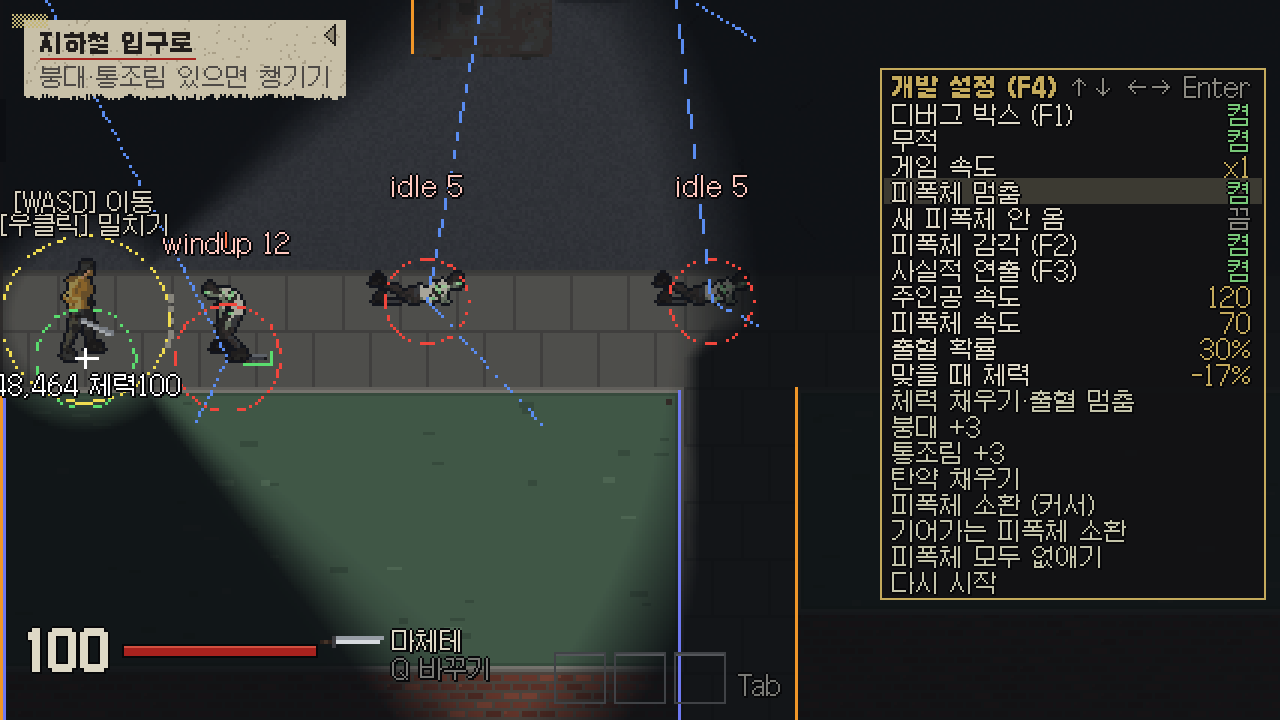
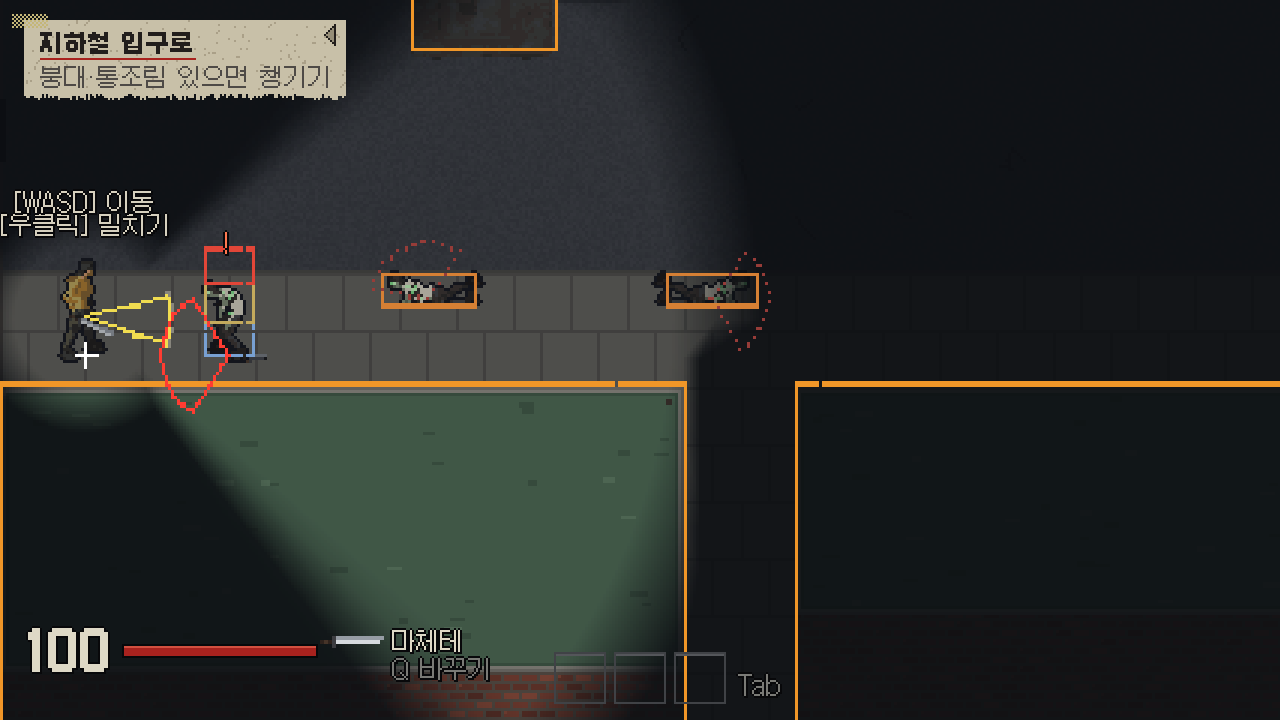
F1 디버그 박스를 공격 범위·히트박스만 보이게
- 숫자·시야·줍기 범위 제거
- 주인공 공격 부채꼴(총은 총알 띠), 피폭체 머리·몸통·다리 박스, 할퀴기 부채꼴
- 선을 캔버스 픽셀 단위로 찍어 끊기지 않게

diff --git a/src/dev_tools.py b/src/dev_tools.py
@@ -1,7 +1,7 @@
 """Developer tools (2026-11-18 "디버그용 박스가 필요함", "개발용 설정창 테스트를 할 수 있게").
 
-- F1: debug boxes over the world - walls and wrecks, the hero's reach and pick-up range, each
-  infected's reach, sight cone, state and health, things to pick up, the exit.
+- F1: debug boxes over the world, only what decides hits (no numbers): walls and wrecks, the
+  hero's blow toward the cursor, each infected's body parts (head / torso / legs) and its claw.
 - F4: the dev settings panel (top right). Up/Down choose a row, Left/Right change it, Enter does it;
   or click a row (left = up / do, right = down). The game keeps running behind it.
 
@@ -9,7 +9,7 @@ Every setting is a row in ROWS, so a new one is one line. Values that live in ot
 (speeds, bleeding) are changed there, so the game uses them at once; R keeps them.
 """
 
-from math import cos, pi, sin
+from math import atan2, cos, hypot, sin
 
 import pico2d
 import sdl2
@@ -19,9 +19,8 @@ import condition
 import hero as hero_rules
 import infected
 import pixel_ui as px
-import ui
 import weapons
-from settings import CHEST, HERO_HP
+from settings import CHEST, DOT, HERO_HP, ZOMBIE_ARC
 
 SPEEDS = (0.25, 0.5, 1.0, 2.0)
 PANEL = (440, 34, 632)              # canvas px: left, top, right (the rows set the bottom)
@@ -109,7 +108,7 @@ def _restart(game, step):
 
 # (label, value shown or None for an action, change(game, step))
 ROWS = (
-    ("디버그 박스 (F1)", lambda g: _on(g.dev.boxes), _flip("boxes")),
+    ("공격 범위·히트박스 (F1)", lambda g: _on(g.dev.boxes), _flip("boxes")),
     ("무적", lambda g: _on(g.dev.god), _flip("god")),
     ("게임 속도", lambda g: f"x{g.dev.speed:g}", _speed),
     ("피폭체 멈춤", lambda g: _on(g.dev.freeze), _flip("freeze")),
@@ -197,47 +196,82 @@ def draw_panel(game):
             px.text(r - 6, y, v, (120, 200, 120) if v == "켬" else GREY if v == "끔" else PANEL_EDGE, anchor="r")
 
 
-def _circle(x, y, radius, colour, steps=32):
-    for i in range(steps):
-        a0, a1 = 2 * pi * i / steps, 2 * pi * (i + 1) / steps
-        pico2d.draw_line(x + cos(a0) * radius, y + sin(a0) * radius, x + cos(a1) * radius, y + sin(a1) * radius, *colour)
+# The world canvas has DOT canvas px per world unit (< 1), so a 1-unit line falls between pixels and
+# parts of it vanish: every mark is made of whole canvas pixels instead.
+PIXEL = 1 / DOT
+
+
+def _dot(x, y, colour):
+    qx, qy = round(x * DOT) / DOT, round(y * DOT) / DOT
+    pico2d.draw_rectangle(qx, qy, qx + PIXEL * 0.99, qy + PIXEL * 0.99, *colour, filled=True)
+
+
+def _line(x0, y0, x1, y1, colour, gap=1):
+    n = max(1, int(hypot(x1 - x0, y1 - y0) * DOT / gap))
+    for i in range(n + 1):
+        _dot(x0 + (x1 - x0) * i / n, y0 + (y1 - y0) * i / n, colour)
+
+
+def _arc(x, y, radius, a0, a1, colour, gap=1):
+    n = max(2, int(radius * abs(a1 - a0) * DOT / gap))
+    for i in range(n + 1):
+        a = a0 + (a1 - a0) * i / n
+        _dot(x + cos(a) * radius, y + sin(a) * radius, colour)
+
+
+def _wedge(x, y, radius, ang, half, colour, gap=1):
+    """The area a blow covers: radius out from (x, y), half radians either side of ang."""
+    _arc(x, y, radius, ang - half, ang + half, colour, gap)
+    for a in (ang - half, ang + half):
+        _line(x, y, x + cos(a) * radius, y + sin(a) * radius, colour, gap)
 
 
 def _box(l, b, r, t, colour):
-    pico2d.draw_rectangle(l, b, r, t, *colour)
+    _line(l, b, r, b, colour)
+    _line(l, t, r, t, colour)
+    _line(l, b, l, t, colour)
+    _line(r, b, r, t, colour)
+
+
+PART_COLOURS = {"head": (226, 70, 56), "torso": (196, 170, 92), "legs": (120, 160, 210)}
 
 
 def draw_boxes(game, cx, cy):
-    """World-space outlines (called inside the world canvas, after everything else)."""
+    """F1: only what decides hits, no numbers (2026-11-18 "숫자는 빼고 공격 범위, 히트박스"):
+    walls bodies bump into, the hero's blow, each infected's body parts and its claw."""
     if not game.dev.boxes:
         return
-    from supplies import PICK_RANGE
-    vl, vb = cx, cy
-    vr, vt = cx + game.view_w, cy + game.view_h
-    for bl, bb, br, bt in area.near_blocks(vl, vb, vr, vt):          # what bodies bump into
-        _box(bl - cx, bb - cy, br - cx, bt - cy, (240, 150, 40))
-    for bl, bb, br, bt in area.sight_blocks(vl, vb, vr, vt):         # what blocks the view
-        _box(bl + 2 - cx, bb + 2 - cy, br - 2 - cx, bt - 2 - cy, (110, 120, 240))
-    el, eb, er, et = area.EXIT
-    _box(el - cx, eb - cy, er - cx, et - cy, (80, 230, 120))
+    for bl, bb, br, bt in area.near_blocks(cx, cy, cx + game.view_w, cy + game.view_h):
+        _box(bl - cx, bb - cy, br - cx, bt - cy, (240, 150, 40))                  # walls, wrecks
     h = game.hero
     hx, hy = h.x - cx, h.y - cy
-    _circle(hx, hy + CHEST, weapons.attack_range(h.weapon), (240, 220, 80))     # the weapon's reach
-    _circle(hx, hy, PICK_RANGE, (90, 220, 110), 20)                             # pick-up range
-    pico2d.draw_line(hx - 6, hy, hx + 6, hy, 255, 255, 255)
-    pico2d.draw_line(hx, hy - 6, hx, hy + 6, 255, 255, 255)
-    ui.world_text_center(hx, hy - 14, f"{h.x:.0f},{h.y:.0f} 체력{h.hp:.0f}", (255, 255, 255), 10)
-    for s in game.supplies:
-        if not s.taken:
-            _box(s.x - 6 - cx, s.y - 6 - cy, s.x + 6 - cx, s.y + 6 - cy, (90, 220, 110))
-    for x, y, _ in game.ground_weapons:
-        _box(x - 8 - cx, y - 4 - cy, x + 8 - cx, y + 4 - cy, (90, 220, 110))
+    _line(hx - 6, hy, hx + 6, hy, (255, 255, 255))                                # where claws aim
+    _line(hx, hy - 6, hx, hy + 6, (255, 255, 255))
+    w = h.weapon
+    length = weapons.attack_range(w)
+    if game.aim[0] is not None:                                                   # the blow toward the cursor
+        tx, ty = game.mouse_world(*game.aim)
+        ang = atan2(ty - (h.y + CHEST), tx - h.x)
+        if w.get("shot"):                                                         # a gun: the bullet's lane
+            half = w["shot"]["width"] / 2
+            nx, ny = -sin(ang) * half, cos(ang) * half
+            ex, ey = hx + cos(ang) * length, hy + CHEST + sin(ang) * length
+            for sgn in (1, -1):
+                _line(hx + nx * sgn, hy + CHEST + ny * sgn, ex + nx * sgn, ey + ny * sgn, (240, 220, 80), 2)
+        else:
+            half = w["cells"] * weapons.CELL_WORLD / 2 / length                   # as wide as the hit (draw_aim)
+            _wedge(hx, hy + CHEST, length, ang, half, (240, 220, 80))
     for z in game.zombies:
         if not z.alive:
             continue
         zx, zy = z.x - cx, z.y - cy
-        _circle(zx, zy, z.reach, (240, 70, 60), 20)                                # where its blow lands
-        for a in (z.heading - infected.SIGHT_HALF, z.heading + infected.SIGHT_HALF):   # its sight cone
-            pico2d.draw_line(zx, zy, zx + cos(a) * infected.SIGHT_RANGE, zy + sin(a) * infected.SIGHT_RANGE, 90, 140, 240)
-        ui.world_text_center(zx, zy + 66, f"{z.state} {z.health}", (255, 200, 190), 10)
-
+        if z.prone:                                                               # a crawler: all of it is "밟기"
+            hw = weapons.PART_HALF_WIDTH * 2
+            _box(zx - hw, zy - 4, zx + hw, zy + 14, (214, 128, 52))
+        else:
+            hw = weapons.PART_HALF_WIDTH
+            for part, low, high in weapons.PARTS:
+                _box(zx - hw, zy + low, zx + hw, zy + high, PART_COLOURS[part])
+        striking = z.state in ("windup", "strike")
+        _wedge(zx, zy, z.reach + 8, z.heading, ZOMBIE_ARC,
+               (255, 60, 50) if striking else (150, 60, 56), 1 if striking else 3)                     # its claw (bright when it comes)

diff --git a/docs/DEVLOG.md b/docs/DEVLOG.md
@@ -313,3 +313,4 @@
 - **배낭 2단계(2026-11-18):** 자리 `[kind, col, row, turned, count]`, `STACK`, `stack_max`, `sync`가 무더기부터 채우고 마지막 무더기부터 뺌, `room_for`가 무더기 빈자리도 봄, `tidy`(큰 것부터 다시 놓기, 실패하면 되돌림). `bag_screen`: 떨어질 곳에 합칠 무더기(`bag_target[4]`), `land`(바닥에서 온 하나를 놓은 칸·무더기로 옮김), `drop_stack`, 손 칸(`hud.HAND_RECT`), 정리 버튼(`hud.TIDY_RECT`), 두 번 클릭(`bag_click`, 0.35초). `hud`: 개수 숫자, `draw_tooltip`, 손 칸 테두리, 정리 버튼. 점검: 3·4개 무더기 합치기 → 5·2, 권총을 손 칸으로 → 들고 마체테는 배낭으로, 두 번 클릭 붕대 → 체력 60→75, 정리 성공, 예전 점검 통과.
 - **출혈 하나로(2026-11-18):** `condition.py`의 `INJURIES` 대신 `BLOW_DAMAGE 17`, `BLEED_CHANCE 0.4`, `BLEED_RATE 1.5`; `Condition.bleeding`(참/거짓), `blows`(몸 그림 점), `dressed`. `wound()`는 (출혈 여부, 17), `treat()`는 출혈을 멈추면 True. `hud.WOUND_SPOTS`를 한 줄 목록으로, 몸 칸 글은 출혈/붕대/다친 곳 없음. 붕대 설명·메시지 수정. 점검 check_inv·bag·stage1·gap·bag3 통과.
 - **개발 도구(2026-11-18):** 새 `src/dev_tools.py` — `Dev`(open, boxes, god, speed, freeze, no_spawn), `ROWS`(이름, 값 보이기, 바꾸기), `key`(F1·F4·화살표·Enter), `click`(패널을 누르면 그 클릭의 뗌은 공격이 아님: `ate_press`), `draw_panel`, `draw_boxes`. `play`: `self.dev`, update 처음에 `real_dt *= dev.speed`, 무적이면 맞음·출혈 무시, 멈춤이면 피폭체 update 건너뜀, 새 피폭체 막기, F2·F3을 `toggle_senses`/`toggle_real`로 뺌(설정창도 씀). `main`: 패널 클릭 먼저. 점검 check_dev: 소환 1, 속도 110→120, 출혈 40→30%, 패널 클릭 무적 켬·패널 밖 클릭 무시, 무적으로 5초 붙어 있어도 체력 100, 멈춤이면 0 이동. 예전 점검 통과.
+- **F1을 판정만 보이게(2026-11-18):** 사용자 "숫자는 빼고 공격 범위, 히트박스". `draw_boxes`에서 글자·시야 부채꼴·시야 막는 것·출구·줍기 범위 제거. 주인공 공격은 `draw_aim`과 같은 폭의 부채꼴(`cells * CELL_WORLD / 2 / range`), 총은 `shot.width` 띠. 피폭체는 `weapons.PARTS`·`PART_HALF_WIDTH` 부위 박스와 `reach + 8`, `±ZOMBIE_ARC` 할퀴기 부채꼴(infected.py 판정과 같음). 1 월드 단위 선이 캔버스 픽셀 사이에 떨어져 끊겨서 `_dot`/`_line`/`_arc`로 픽셀 단위로 찍음. 발견: 서 있는 피폭체의 머리 박스(40~60)가 그림의 머리보다 위로 나간다.

diff --git a/PRD.md b/PRD.md
@@ -20,7 +20,7 @@
 > **기획 고정 문서:** [DESIGN_LOCK.md](docs/planning/DESIGN_LOCK.md)(2026-11-13)가 기둥 3개·확정·정할 것·보류함·바꾸는 규칙을 담는다. 이 PRD와 어긋나면 고정 문서가 우선이고 PRD를 고친다.
 
 - **v8.4 (2026-11-18) — 개발 도구: 디버그 박스(F1), 개발 설정창(F4).** 사용자 "디버그용 박스가 필요함", "개발용 설정창, 테스트를 할 수 있게".
-  - **F1 디버그 박스:** 부딪히는 벽·차(주황), 시야를 막는 것(파랑), 출구(초록), 주인공의 무기 사거리(노랑)·줍기 범위(초록)·좌표·체력, 피폭체마다 공격 거리(빨강)·시야 부채꼴(파랑)·상태·체력, 주울 것(초록). 어둠 속 피폭체도 보인다.
+  - **F1 공격 범위·히트박스:** 사용자 "숫자는 빼고 공격 범위, 히트박스 그러한 것만". 숫자·시야·줍기 범위는 빼고 판정에 쓰는 것만: 부딪히는 벽·차(주황), 주인공 발밑의 맞는 점(흰 +), 커서 쪽 공격 부채꼴(노랑, 판정과 같은 폭; 총은 총알이 지나가는 띠), 피폭체 몸 부위 박스(머리 빨강·몸통 노랑·다리 파랑, 기어가는 것은 몸 전체 주황 "밟기"), 피폭체 할퀴기 부채꼴(평소 흐린 점선, 예고·공격 중엔 진한 빨강). 어둠 속 피폭체도 보인다. 선은 캔버스 픽셀 단위로 찍어 끊기지 않게.
   - **F4 개발 설정창(오른쪽 위):** ↑↓로 고르고 ←→로 바꾸고 Enter로 실행, 또는 클릭(왼쪽 = 올림·실행, 오른쪽 = 내림). 게임은 뒤에서 계속 돈다.
   - 항목: 디버그 박스, 무적, 게임 속도(x0.25~x2), 피폭체 멈춤, 새 피폭체 안 옴, 피폭체 감각(F2), 사실적 연출(F3), 주인공 속도, 피폭체 속도, 출혈 확률, 맞을 때 체력, 체력 채우기·출혈 멈춤, 붕대 +3, 통조림 +3, 탄약 채우기, 피폭체 소환(커서 자리), 기어가는 피폭체 소환, 피폭체 모두 없애기, 다시 시작.
   - 설정은 R로 다시 해도 남는다. 항목은 `src/dev_tools.py`의 `ROWS`에 한 줄씩. 화면 `docs/planning/dev_tools.png`.

diff --git a/README.md b/README.md
@@ -50,7 +50,7 @@ python src/main.py
 - **사방에서 몰려옴:** 구역 가장자리의 골목·문(어두운 틈)에서 피폭체가 계속 들어옵니다. 베거나 구르는 소리가 나면 더 빨리, 그 소리 쪽으로 옵니다. 화면 위 "남은 피폭체"가 0이 되면 구역 정리입니다.
 - **소리:** 폐허 바람이 깔리고 가끔 먼 사이렌이 울립니다. 시야 밖 피폭체도 신음·발소리·예고음이 거리만큼 들리고, 주인공을 발견하면 비명을 지릅니다.
 - `F2` 피폭체 감각을 끄고 예전 규칙(가까우면 무조건 쫓아옴)과 비교합니다.
-- `F1` 디버그 박스(벽, 사거리, 피폭체 시야·공격 거리·상태)를 켜고 끕니다.
+- `F1` 공격 범위·히트박스(벽, 주인공 공격 부채꼴, 피폭체 머리·몸통·다리 박스와 할퀴기 범위)를 켜고 끕니다.
 - `F4` 개발 설정창: 무적, 게임 속도, 피폭체 멈춤·소환·없애기, 속도·출혈 수치, 붕대·탄약 채우기 등.
 
 - **구역:** 기본은 실제 지도(오픈스트리트맵)로 만든 **서울역 앞**입니다. 예전 손으로 만든 거리는 `BUSAN_AREA=test` 환경 변수로 실행합니다. 새 구역은 `tools/map/osm_area.py`로 만듭니다. 지도 데이터 © OpenStreetMap contributors (ODbL).
